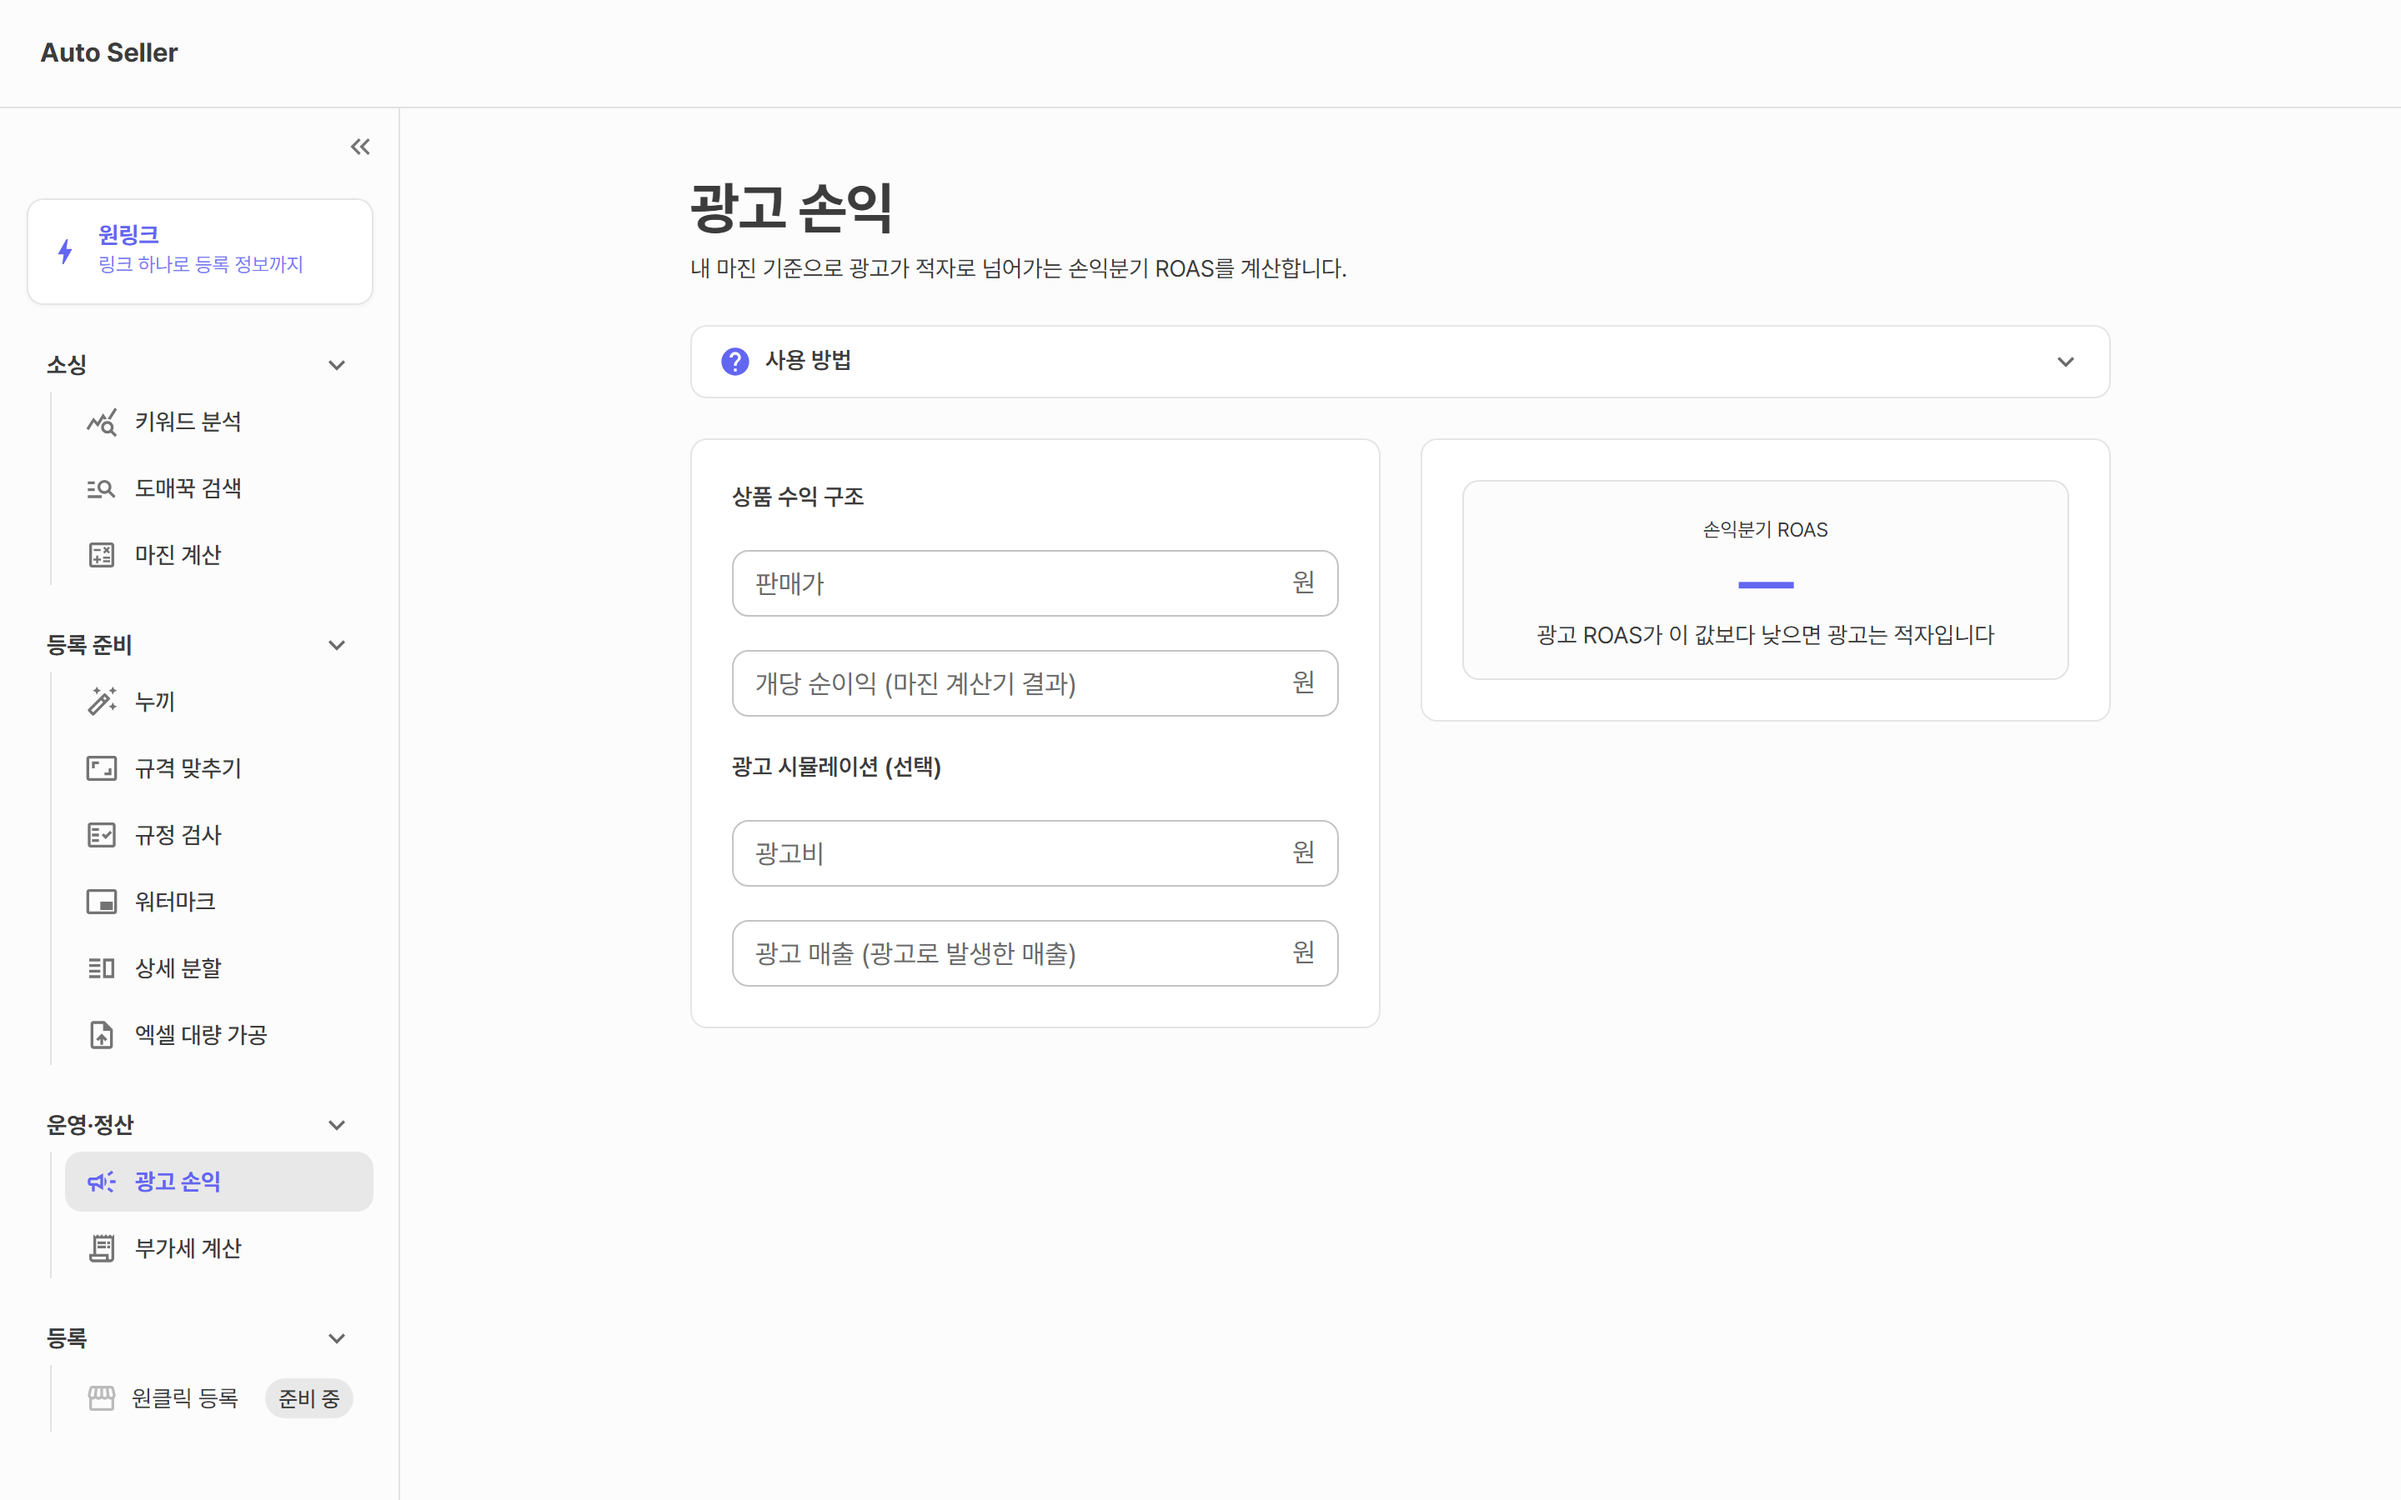
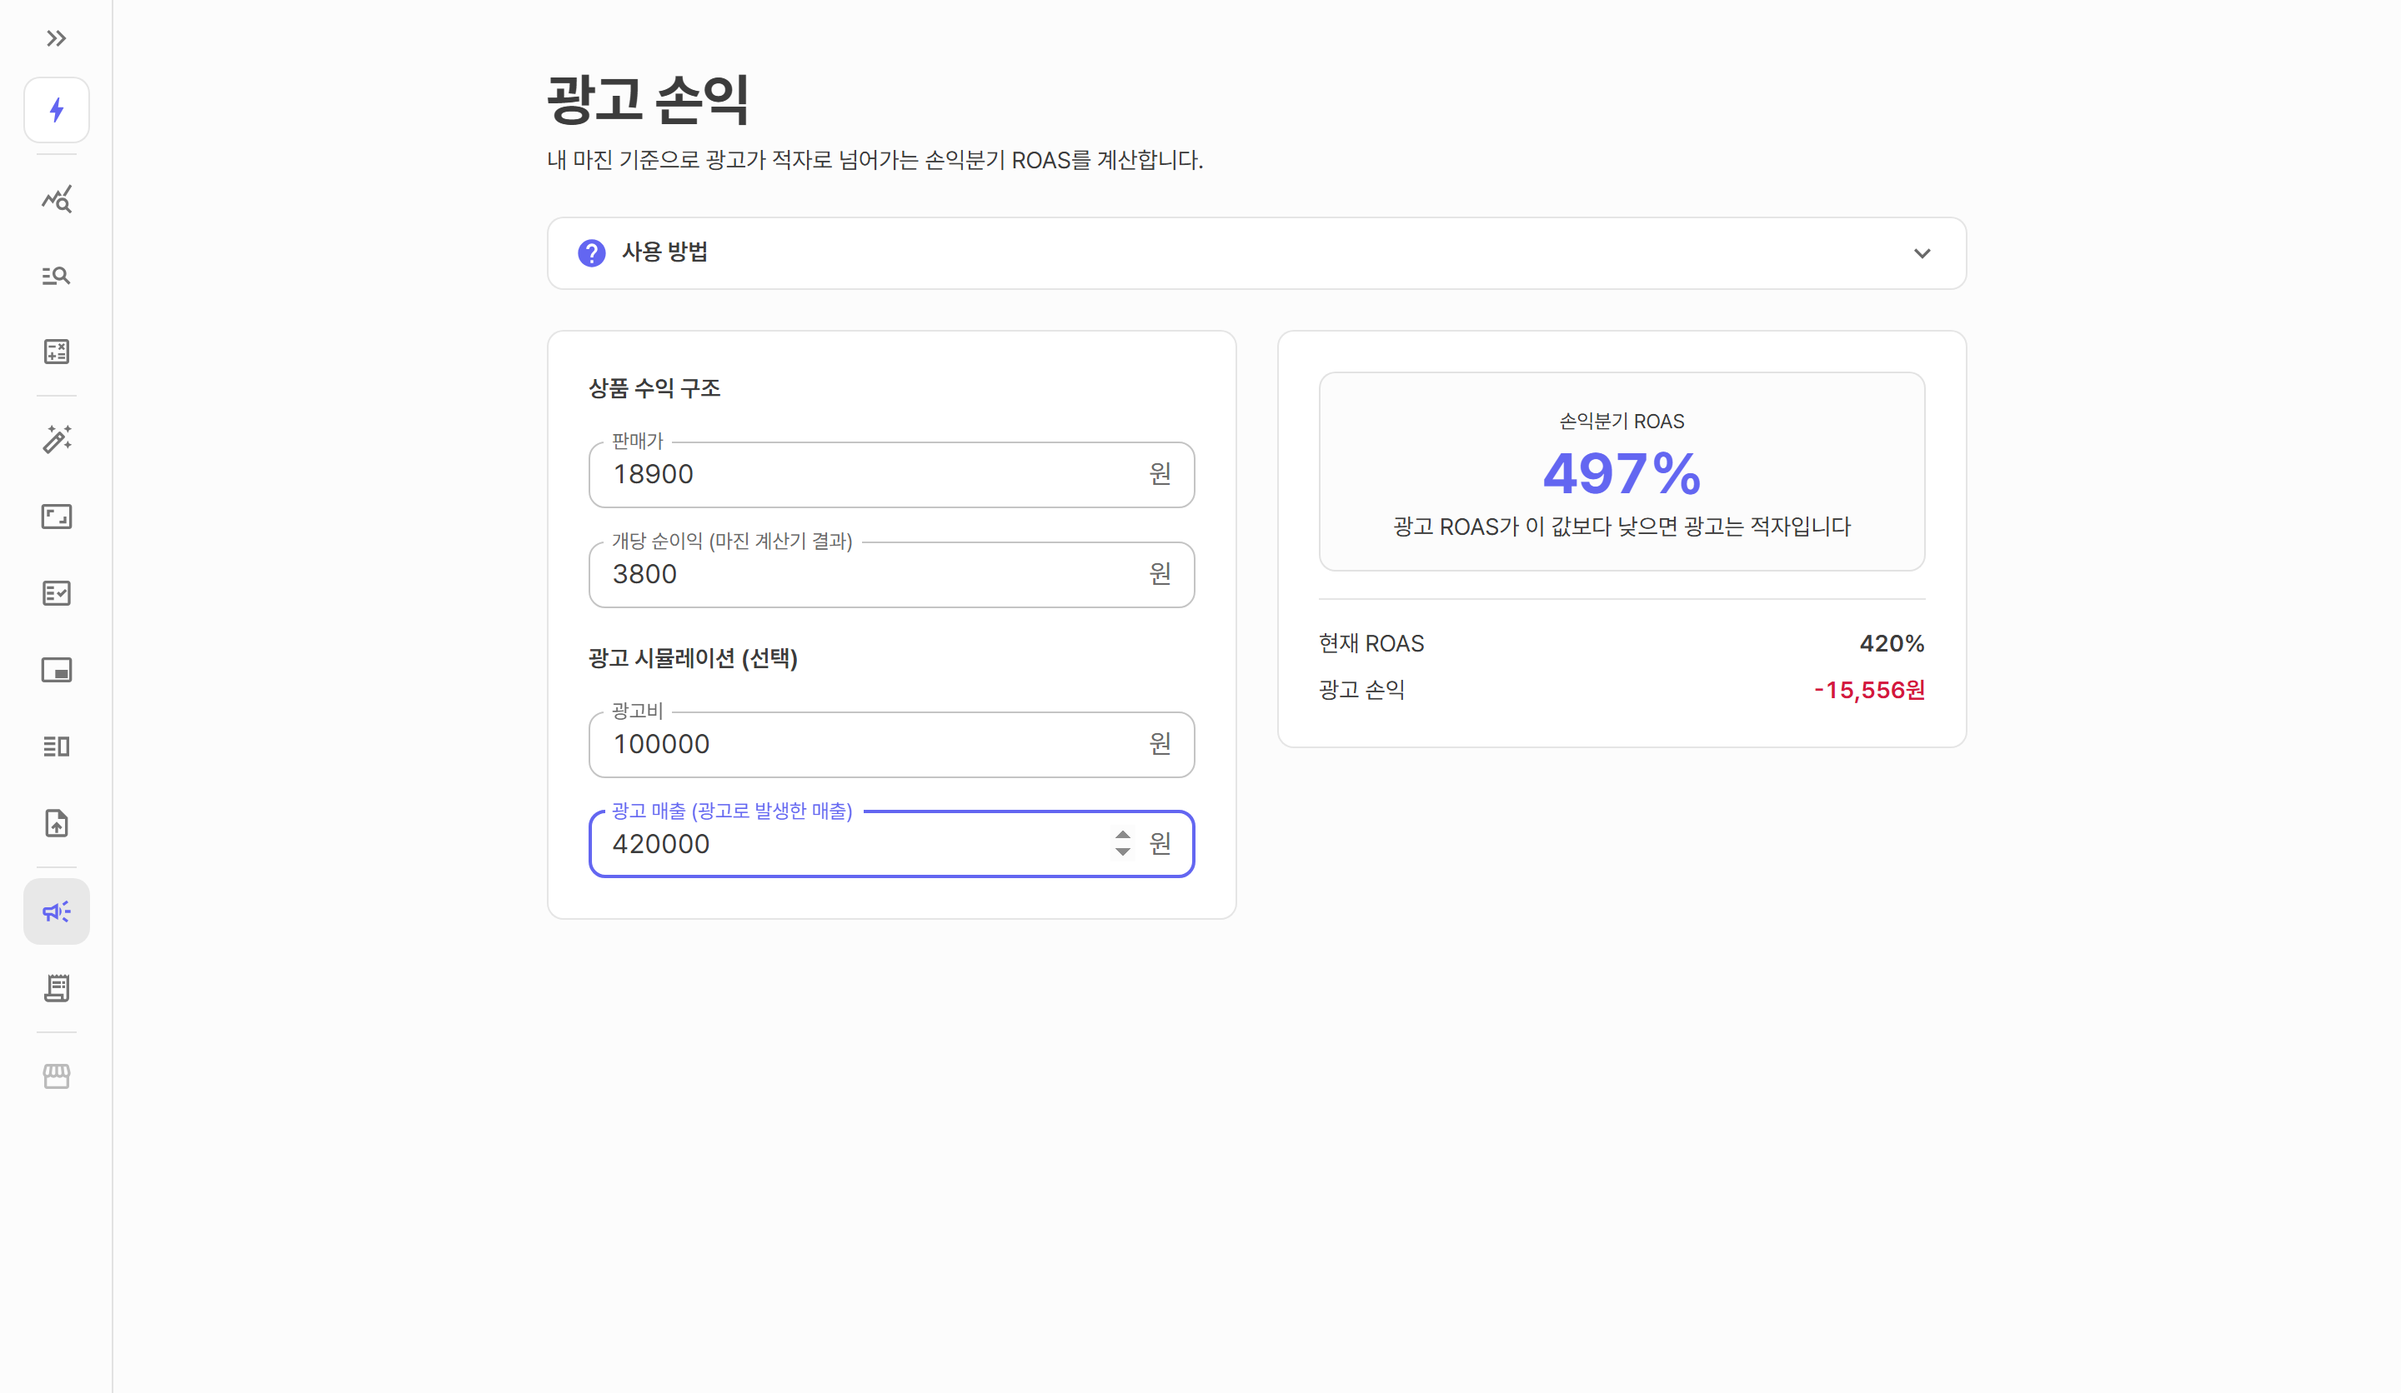
🎨 블로그 이미지 전면 재캡처 — 도구 조작 후 결과 상태·사이드바 접기(준비중 배지 제거)·키워드 자동표·시트 상품 개선

diff --git a/tools/shorts-studio/scripts/capture-screens.ts b/tools/shorts-studio/scripts/capture-screens.ts
@@ -1,58 +1,141 @@
-//////////////////////////////////////// 블로그용 화면 캡처 ////////////////////////////////////////
-// 서비스 주요 화면을 PC뷰로 일괄 캡처 → 저장소 public/marketing/ (Vercel 서빙 = 고정 URL)
-// 사용: npx tsx scripts/capture-screens.ts [검색어] [파일접미사]
-//   예: npx tsx scripts/capture-screens.ts 아기식판 baby  →  domeggook-import-sheet-baby.png
-//   인자 없으면 도구 초기 화면 전체 + 기본 검색어 촬영. 검색어는 콘텐츠 소재와 맞출 것 (한 상품 고정 금지)
+//////////////////////////////////////// 블로그용 화면 캡처 (조작 후 결과 상태) ////////////////////////////////////////
+// 각 도구를 실제 조작해 "기능 작동 결과" 화면을 캡처 → public/marketing/ (Vercel 고정 URL)
+// main 콘텐츠 영역만 캡처 → 사이드바·"준비 중" 배지 자동 제외
+// 사용: npx tsx scripts/capture-screens.ts [원링크검색어] [접미사]
 import { chromium, type Page } from "playwright";
-import { mkdirSync } from "node:fs";
+import { mkdirSync, readdirSync } from "node:fs";
 import { resolve, join } from "node:path";
 
 const OUT = resolve(__dirname, "../../../public/marketing");
+const ASSETS = resolve(__dirname, "../assets");
 const BASE = process.env.SHORTS_BASE_URL ?? "https://www.auto-seller.co.kr";
 const VIEWPORT = { width: 1440, height: 900 };
 
-// 도구별 초기 화면 (라우트 = 파일명)
-const TOOL_ROUTES = [
-  "domeggook-import",
-  "domeggook-search",
-  "excel-import",
-  "image-check",
-  "image-resize",
-  "image-split",
-  "background-removal",
-  "watermark",
-  "keyword-stats",
-  "margin-calculator",
-  "roas-calculator",
-  "vat-calculator",
-];
-
+// main 콘텐츠 영역만 저장 (사이드바·헤더 제외). 없으면 전체
 const shot = async (page: Page, name: string) => {
-  await page.screenshot({ path: join(OUT, `${name}.png`) });
+  const main = page.locator("main").first();
+  if (await main.count()) {
+    await main.screenshot({ path: join(OUT, `${name}.png`) });
+  } else {
+    await page.screenshot({ path: join(OUT, `${name}.png`) });
+  }
   console.log(`📸 ${name}.png`);
+};
+
+const files = (folder: string, limit?: number) => {
+  const dir = join(ASSETS, folder);
+  return readdirSync(dir)
+    .filter((f) => /\.(jpg|jpeg|png|webp|xlsx)$/i.test(f))
+    .slice(0, limit)
+    .map((f) => join(dir, f));
+};
+
+const upload = async (page: Page, folder: string, limit?: number) => {
+  await page.locator('input[type="file"]').first().setInputFiles(files(folder, limit));
 };
 
 const main = async () => {
   const [keyword, suffix] = process.argv.slice(2);
-  const onlyImport = Boolean(keyword); // 검색어 지정 시 원링크 화면만 추가 촬영
+  const onlyImport = Boolean(keyword);
   const tag = suffix ? `-${suffix}` : "";
 
   mkdirSync(OUT, { recursive: true });
   const browser = await chromium.launch({ headless: true });
   const page = await browser.newPage({ viewport: VIEWPORT, deviceScaleFactor: 2 });
+  // 사이드바 접기(레일) — "원클릭 등록 준비 중" 배지 등 미출시 표기 숨김
+  await page.addInitScript(() => localStorage.setItem("sidebar-collapsed", "1"));
 
   if (!onlyImport) {
-    ////////// 홈 + 각 도구 초기 화면
+    ////////// 홈
     await page.goto(`${BASE}/`, { waitUntil: "networkidle" });
     await shot(page, "home");
-    for (const route of TOOL_ROUTES) {
-      await page.goto(`${BASE}/${route}`, { waitUntil: "networkidle" });
-      await page.waitForTimeout(600);
-      await shot(page, route);
-    }
+
+    ////////// 키워드 분석 — 접속 직후 자동 표(이번 달 뜨는 키워드) = 기능 작동 화면
+    await page.goto(`${BASE}/keyword-stats`, { waitUntil: "networkidle" });
+    await page.getByText("이번 달 뜨는 키워드").first().waitFor({ timeout: 30000 }).catch(() => {});
+    await page.waitForTimeout(1500);
+    await shot(page, "keyword-stats");
+
+    ////////// 도매꾹 검색 — 자동 인기순 결과
+    await page.goto(`${BASE}/domeggook-search`, { waitUntil: "networkidle" });
+    await page.getByText(/총 [\d,]+개 상품/).first().waitFor({ timeout: 30000 }).catch(() => {});
+    await page.waitForTimeout(800);
+    await shot(page, "domeggook-search");
+
+    ////////// 마진 계산 — 역산 결과
+    await page.goto(`${BASE}/margin-calculator`, { waitUntil: "networkidle" });
+    await page.getByRole("button", { name: "판매가 역산" }).click();
+    await page.getByLabel("원가 (매입가·공급가)").fill("13800");
+    await page.getByLabel("실제 나가는 배송비").fill("3000");
+    await page.getByText("마진 20%").first().click();
+    await page.waitForTimeout(800);
+    await shot(page, "margin-calculator");
+
+    ////////// 광고 손익 (ROAS) — 결과
+    await page.goto(`${BASE}/roas-calculator`, { waitUntil: "networkidle" });
+    await page.getByLabel("판매가").fill("18900");
+    await page.getByLabel("개당 순이익 (마진 계산기 결과)").fill("3800");
+    await page.getByLabel("광고비").fill("100000");
+    await page.getByLabel("광고 매출 (광고로 발생한 매출)").fill("420000");
+    await page.waitForTimeout(800);
+    await shot(page, "roas-calculator");
+
+    ////////// 부가세 — 결과
+    await page.goto(`${BASE}/vat-calculator`, { waitUntil: "networkidle" });
+    await page.getByLabel("매출 (부가세 포함 공급대가)").fill("12000000");
+    await page.getByLabel("매입 (세금계산서·카드 증빙분)").fill("7000000");
+    await page.waitForTimeout(800);
+    await shot(page, "vat-calculator");
+
+    ////////// 규정 검사 — 업로드 후 자동 판정
+    await page.goto(`${BASE}/image-check`, { waitUntil: "networkidle" });
+    await upload(page, "ep20");
+    await page.getByRole("button", { name: "규격 변환으로 보내기" }).waitFor({ timeout: 60000 }).catch(() => {});
+    await page.waitForTimeout(1000);
+    await shot(page, "image-check");
+
+    ////////// 규격 맞추기 — 변환 완료
+    await page.goto(`${BASE}/image-resize`, { waitUntil: "networkidle" });
+    await upload(page, "ep20", 10);
+    await page.getByRole("button", { name: "규격 변환" }).click();
+    await page.getByRole("button", { name: "다운로드" }).waitFor({ timeout: 60000 }).catch(() => {});
+    await page.waitForTimeout(1000);
+    await shot(page, "image-resize");
+
+    ////////// 워터마크 — 적용 완료
+    await page.goto(`${BASE}/watermark`, { waitUntil: "networkidle" });
+    await upload(page, "ep20", 6);
+    await page.getByLabel("워터마크 문구").fill("오토셀러스토어");
+    await page.getByRole("button", { name: "워터마크 적용" }).click();
+    await page.getByRole("button", { name: "다운로드" }).waitFor({ timeout: 60000 }).catch(() => {});
+    await page.waitForTimeout(1000);
+    await shot(page, "watermark");
+
+    ////////// 상세 분할 — 분할 완료
+    await page.goto(`${BASE}/image-split`, { waitUntil: "networkidle" });
+    await upload(page, "ep-split", 1);
+    await page.getByRole("button", { name: "분할하기" }).click();
+    await page.getByRole("button", { name: /다운로드/ }).waitFor({ timeout: 60000 }).catch(() => {});
+    await page.waitForTimeout(1000);
+    await shot(page, "image-split");
+
+    ////////// 엑셀 대량 가공 — 목록 로드
+    await page.goto(`${BASE}/excel-import`, { waitUntil: "networkidle" });
+    await upload(page, "ep22");
+    await page.getByText(/상품 \d+개/).first().waitFor({ timeout: 60000 }).catch(() => {});
+    await page.waitForTimeout(1000);
+    await shot(page, "excel-import");
+
+    ////////// 누끼 — 배경 제거 완료 (AI 모델 처리, 마지막에)
+    await page.goto(`${BASE}/background-removal`, { waitUntil: "networkidle" });
+    await upload(page, "ep20", 4);
+    await page.getByRole("button", { name: "배경 제거" }).click();
+    await page.getByRole("button", { name: "다운로드" }).waitFor({ timeout: 240000 }).catch(() => {});
+    await page.waitForTimeout(1000);
+    await shot(page, "background-removal");
   }
 
-  ////////// 원링크 실사용 화면 (검색 결과 + 등록 시트) — 검색어는 콘텐츠 소재와 맞춤
+  ////////// 원링크 시트 — 상세이미지 있는 상품 선택 (빈 썸네일 회피)
   await page.goto(`${BASE}/domeggook-import`, { waitUntil: "networkidle" });
   await page.getByLabel(/도매꾹 링크·상품번호 또는 검색어/).fill(keyword ?? "주방수납");
   await page.getByRole("button", { name: /^(검색|조회)$/ }).first().click();
@@ -60,12 +143,12 @@ const main = async () => {
   await page.waitForTimeout(800);
   await shot(page, `domeggook-import-search${tag}`);
 
+  // 첫 카드 클릭 → 시트
   await page.getByText(/최소 \d+개/).first().click();
   await page.getByText("상품 정보").first().waitFor({ state: "visible", timeout: 30000 });
   await page.waitForTimeout(1500);
   await shot(page, `domeggook-import-sheet${tag}`);
 
-  // 시트 판매가 섹션까지 스크롤
   await page.getByText("판매가").first().scrollIntoViewIfNeeded();
   await page.waitForTimeout(600);
   await shot(page, `domeggook-import-sheet-price${tag}`);
